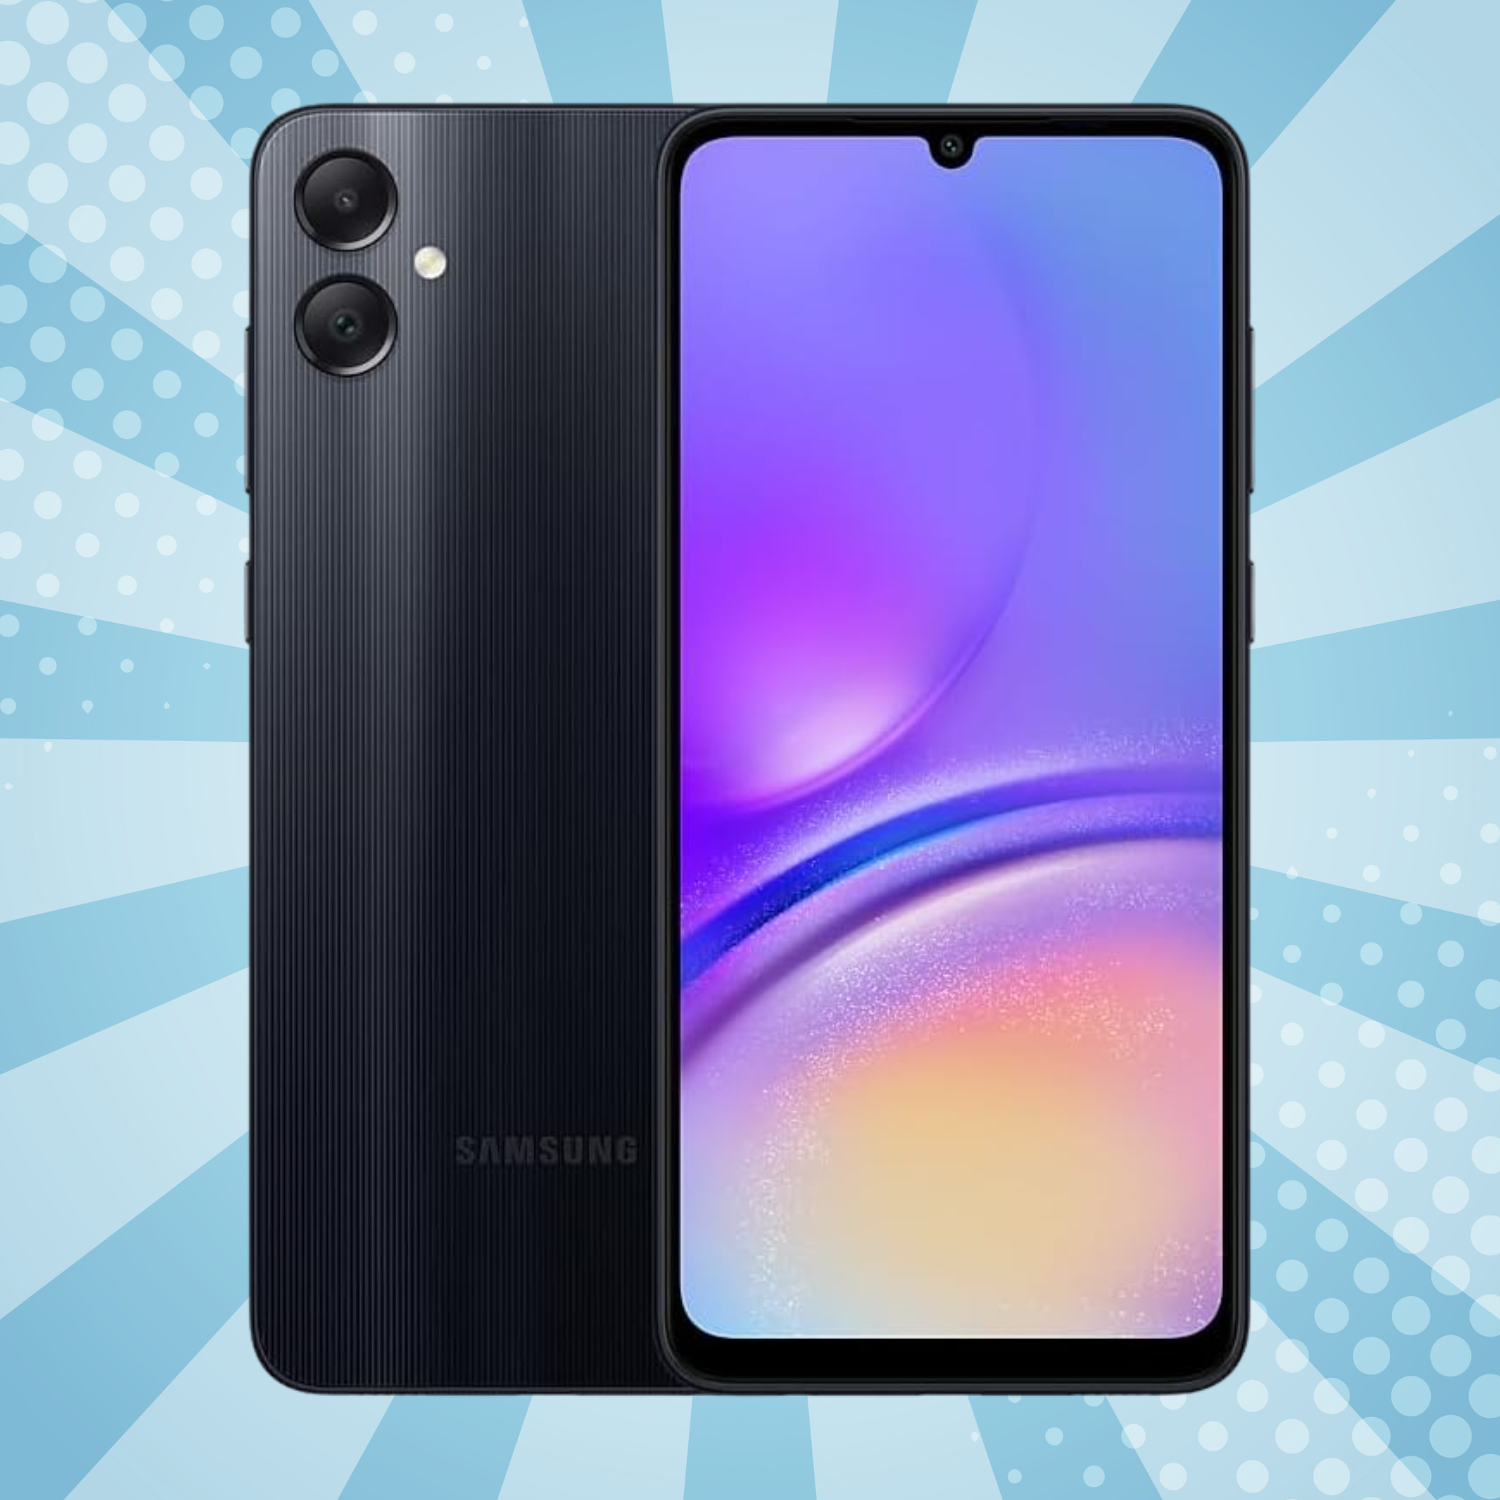
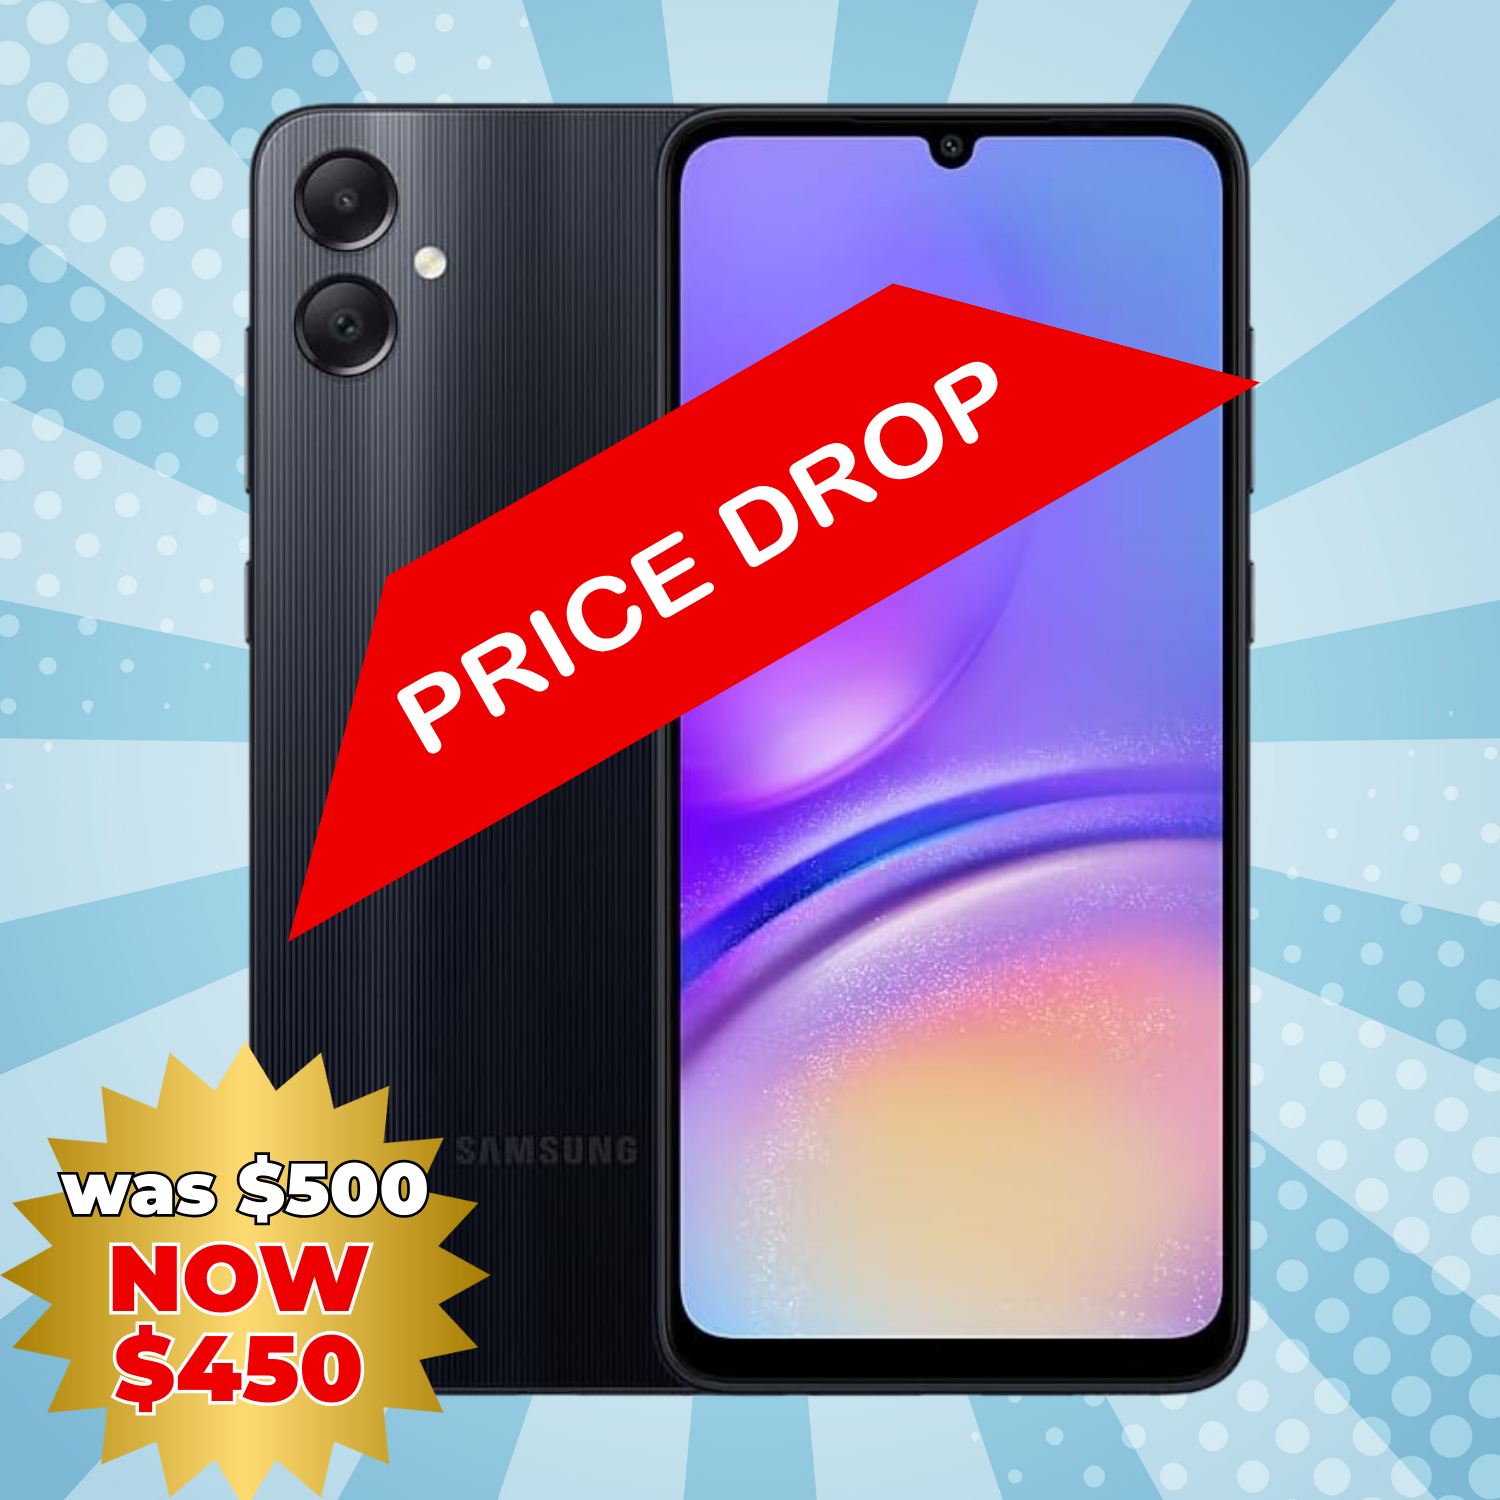
Add 404 error page, image debugger, and fix all TypeScript errors

Changed region(s): [[0.184, 0.184, 0.828, 0.644], [0.0, 0.7053, 0.3373, 1.0]]

diff --git a/app/Categories/phones/page.tsx b/app/Categories/phones/page.tsx
@@ -20,7 +20,7 @@ export default function PhonesCategory() {
   id: 'samsung-galaxy-a05',
   name: 'Samsung Galaxy A05',
   image: '/images/Products/phones/samsung1-galaxy-a05.png',
-  price: 420.00,
+  price: 450.00,
   category: 'samsung',
   availability: 'In Stock',
   isBestSeller: true, // Add this flag
@@ -38,7 +38,7 @@ export default function PhonesCategory() {
   id: 'samsung-galaxy-f05',
   name: 'Samsung Galaxy F05',
   image: '/images/Products/phones/samsung2-galaxy-f05.png',
-  price: 450.00,
+  price: 420.00,
   category: 'samsung',
   availability: 'In Stock',
   isBestSeller: true, // Add this flag

diff --git a/app/not-found.tsx b/app/not-found.tsx
@@ -9,8 +9,8 @@ export default function NotFound() {
     console.error('404 Error - Attempted URL:', window.location.href);
     
     // Track in Google Analytics
-    if (typeof window !== 'undefined' && window.gtag) {
-      window.gtag('event', 'page_view', {
+    if (typeof window !== 'undefined' && (window as any).gtag) {
+      (window as any).gtag('event', 'page_view', {
         page_title: '404 Error',
         page_location: window.location.href,
         page_path: window.location.pathname

diff --git a/app/layout.tsx b/app/layout.tsx
@@ -2,6 +2,7 @@ import Script from 'next/script'
 import type { Metadata } from "next";
 import { Geist, Geist_Mono } from "next/font/google";
 import "./globals.css";
+import ImageDebugger from '@/components/ImageDebugger';
 
 const geistSans = Geist({
   variable: "--font-geist-sans",
